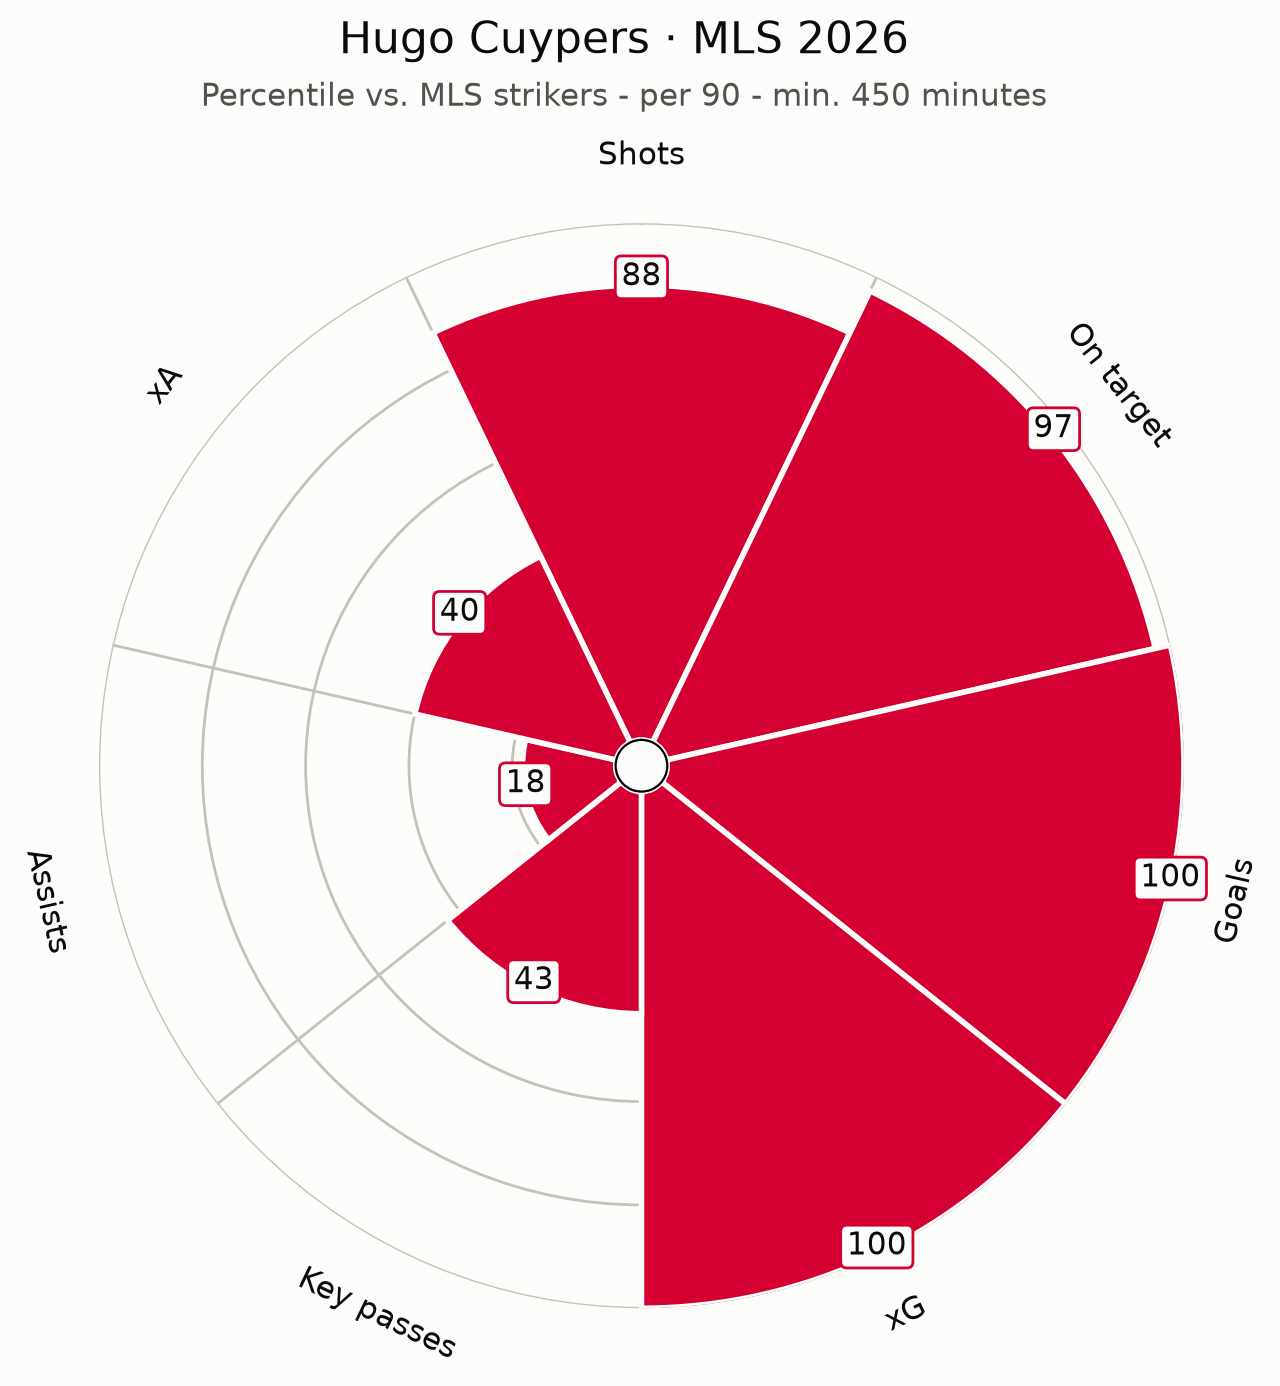
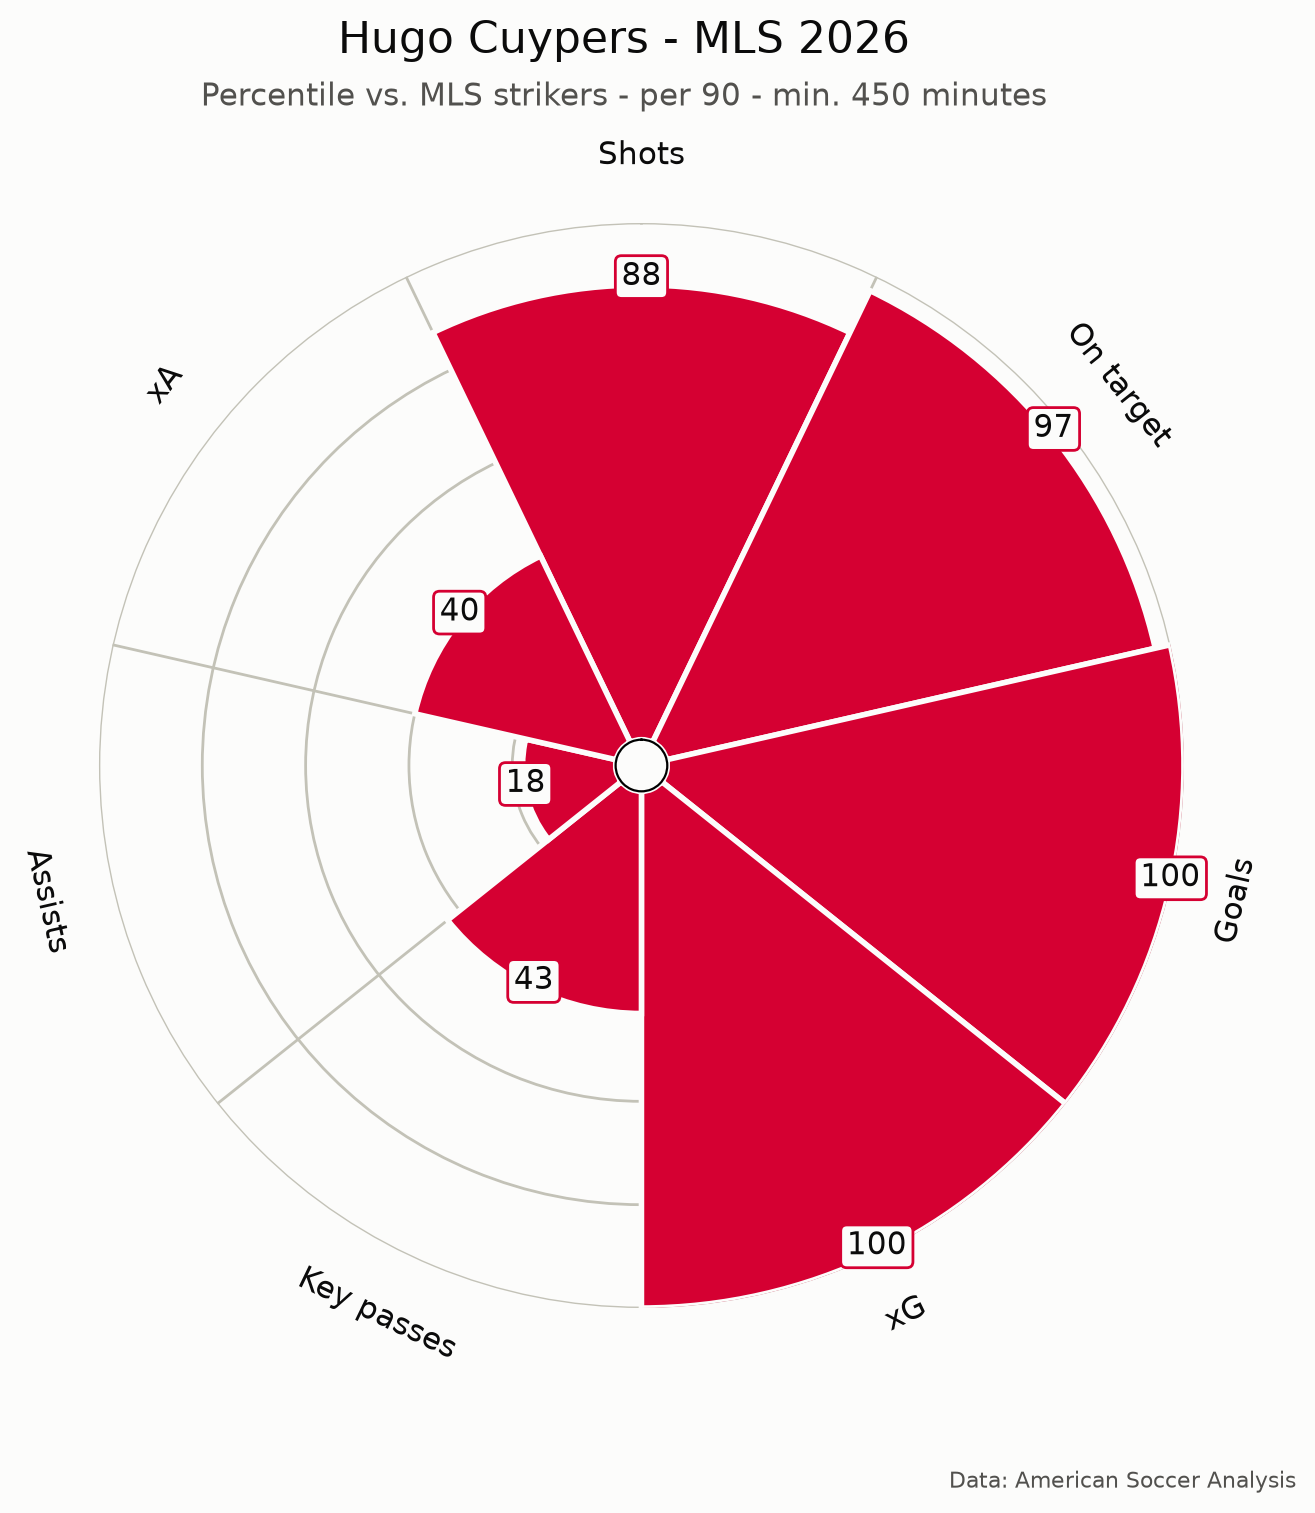
Add README and update example images

diff --git a/charts/pizza.py b/charts/pizza.py
@@ -72,5 +72,5 @@ if __name__ == "__main__":
     stats = add_percentiles(stats, [f"{stat}_per90" for stat in PER90_STATS])
     player = stats[stats["player_name"] == "Hugo Cuypers"].iloc[0]
     color = team_color(player["team_id"])
-    fig = plot_pizza(player, "Hugo Cuypers · MLS 2026", "MLS", color=color)
+    fig = plot_pizza(player, "Hugo Cuypers - MLS 2026", "MLS", color=color)
     fig.savefig("images/cuypers_2026_pizza.png", dpi=200, bbox_inches="tight")

diff --git a/README.md b/README.md
@@ -1,1 +1,137 @@
-# Hughes-Soccer-Analytics-Engine
+# Hughes Soccer Analytics Engine
+
+Player analytics for American pro soccer: **MLS, NWSL, USL Championship, USL League One and USL Super League**. It has shot maps, percentile profiles, leaderboards and a custom **Finishing Rating**, built with Python and Streamlit.
+
+**[Open the live app →](https://hughes-soccer-analytics.streamlit.app)**
+<p align="center">
+  <img src="images/app_player_page.png" alt="Web page layout" width="100%">
+</p>
+
+<p align="center">
+  <img src="images/messi_2026_shot_map.png" alt="Lionel Messi 2026 shot map" width="54%">
+  <img src="images/cuypers_2026_pizza.png" alt="Hugo Cuypers 2026 percentile pizza chart" width="42%">
+</p>
+<p align="center">
+  <img src="images/mls_2026_xg_per90_leaderboard.png" alt="MLS 2026 xG per 90 leaderboard" width="80%">
+</p>
+
+## What's in the app
+
+Pick a league and season in the sidebar. Each league has its three most recent seasons.
+
+**Player page**
+- Search any player with 450+ minutes for a team in that season.
+- See season totals for minutes, goals, xG and shots, plus the Finishing Rating (latest season only).
+- The shot map shows every shot. Goals are filled in the team's color, misses are gray rings, and dot size shows xG.
+- The percentile pizza covers 7 per-90 stats, compared with players at the same position.
+
+**Leaderboard**
+- Shows the top 5–25 players for the Finishing Rating or any of the 7 per-90 stats.
+- Bars use team colors, with a table underneath.
+
+## The Finishing Rating
+
+Goals minus xG (expected goals) is the usual way to measure finishing, but it's noisy: a player with 20 shots can beat their xG by luck alone. The Finishing Rating (0–100) accounts for that.
+
+1. **Combine** a player's rows for the season, so a traded player counts once.
+2. **Qualify:** the player needs 450+ minutes and 20+ shots.
+3. **Shrink toward average:** goals above xG per shot is pulled toward the league average:
+
+   `shrunk finishing = (goals − xG + k × league average) / (shots + k)`, with **k = 300**
+
+   This is like adding 300 league-average shots to every player's record. A player needs a big sample before their finishing moves far from average.
+4. **Season score** = 0.7 × percentile of shrunk finishing + 0.3 × percentile of shots per 90. These percentiles compare across all positions.
+5. **Final rating** = 0.7 × this season + 0.2 × last season + 0.1 × two seasons ago. A missing season counts as this season's score.
+
+Examples from MLS 2026:
+
+| Player | Shots | Goals | xG | Finishing Rating |
+|---|---|---|---|---|
+| Lionel Messi | 149 | 21 | 19.3 | 93 |
+| Hugo Cuypers | 40 | 13 | 10.5 | 72 |
+| Rafael Navarro | 80 | 15 | 18.4 | 31 |
+
+Cuypers beat his xG by more than Messi did, but on far fewer shots, so the rating trusts it less.
+
+## Choosing k: a backtest
+
+k decides how much to trust a player's own record. I tested candidate values by using each player's finishing in one season to predict their finishing in the next. The test covered every pair of consecutive seasons in all five leagues: 10 season pairs and 1,481 player-season pairs, weighted by shots. The code is in [`scripts/tune_k.py`](scripts/tune_k.py).
+
+| Prediction | Error compared with "everyone is average" |
+|---|---|
+| k = 40 | 8.5% worse |
+| k = 250 | 1.34% better |
+| k = 275 (best) | 1.35% better |
+| **k = 300 (chosen)** | **1.34% better** |
+| k = 350 | 1.31% better |
+
+- The error is almost flat from 250 to 350. 275 was best by only 0.005%, so I used the rounder 300 rather than claim false precision.
+- A small k, which trusts each player's own record, does worse than assuming everyone is average.
+- Even the best k is only about 1.3% better than "everyone is average." **Most of a player's goals above xG in one season is noise.** Finishing barely carries over from one season to the next.
+
+## Data
+
+- **Source:** [American Soccer Analysis](https://www.americansocceranalysis.com). Player stats come through the [itscalledsoccer](https://github.com/American-Soccer-Analysis/itscalledsoccer) package, and shots come from the ASA API.
+- **Coverage:** regular season and playoffs combined. Last updated Oct 2, 2026.
+- **Not covered:** Leagues Cup, U.S. Open Cup and CONCACAF competitions.
+
+## Limitations
+
+- Totals can differ from other sites, because of which competitions are covered and how goals are credited.
+- The 450-minute minimum applies per team, so a traded player can appear once for each team in per-90 leaderboards.
+- The Finishing Rating is only shown for the latest season, and new seasons have small samples. For example, USL Super League 2026 has just 3 rated players.
+- Percentiles compare players within their position (GK, CB, FB, DM, CM, AM, W, ST).
+- The stats are shot-based, so they say little about defenders and deep-lying midfielders.
+- Some USL clubs don't have team colors yet and use a default blue.
+- The data is refreshed by hand.
+
+## Run it locally
+
+You'll need Python 3.13.
+
+```bash
+git clone https://github.com/gavinhughes11/Hughes-Soccer-Analytics-Engine.git
+cd Hughes-Soccer-Analytics-Engine
+python3.13 -m venv .venv
+source .venv/bin/activate
+pip install -r requirements.txt
+streamlit run streamlit_app.py
+```
+
+Run other commands from the repo root with `python -m`:
+
+```bash
+python -m scripts.refresh_data      # re-download all data (takes a few minutes)
+pip install -r requirements-dev.txt
+python -m pytest                    # run the tests
+```
+
+## Project structure
+
+```text
+streamlit_app.py   App entry point: sidebar and page navigation
+app/               Player and Leaderboard pages, cached data loaders
+charts/            Shot map, pizza and leaderboard charts, team colors, data credit
+metrics/           Per-90 stats, percentiles, Finishing Rating
+data_sources/      American Soccer Analysis data access
+scripts/           Data refresh, k backtest, team color builder
+data/              Saved data (parquet files) and team colors
+tests/             pytest tests
+config.py          Settings: leagues, seasons, minimums, weights, colors
+```
+
+## What's next
+
+- An "include playoffs" toggle
+- A weekly automatic data refresh
+- Chart downloads sized for social media
+- Goals added (g+), so defenders and midfielders get useful profiles
+- A USL-to-MLS prospect finder
+
+## Built with
+
+Python 3.13 · pandas · Streamlit · matplotlib · mplsoccer · itscalledsoccer
+
+Data from [American Soccer Analysis](https://www.americansocceranalysis.com). Team colors from [TruColor](https://www.trucolor.net). The project layout was inspired by [Bradley Analytics Software Engine](https://github.com/alexbrxdley/Bradley-Analytics-Software-Engine).
+
+Built by [Gavin Hughes](https://github.com/gavinhughes11).
